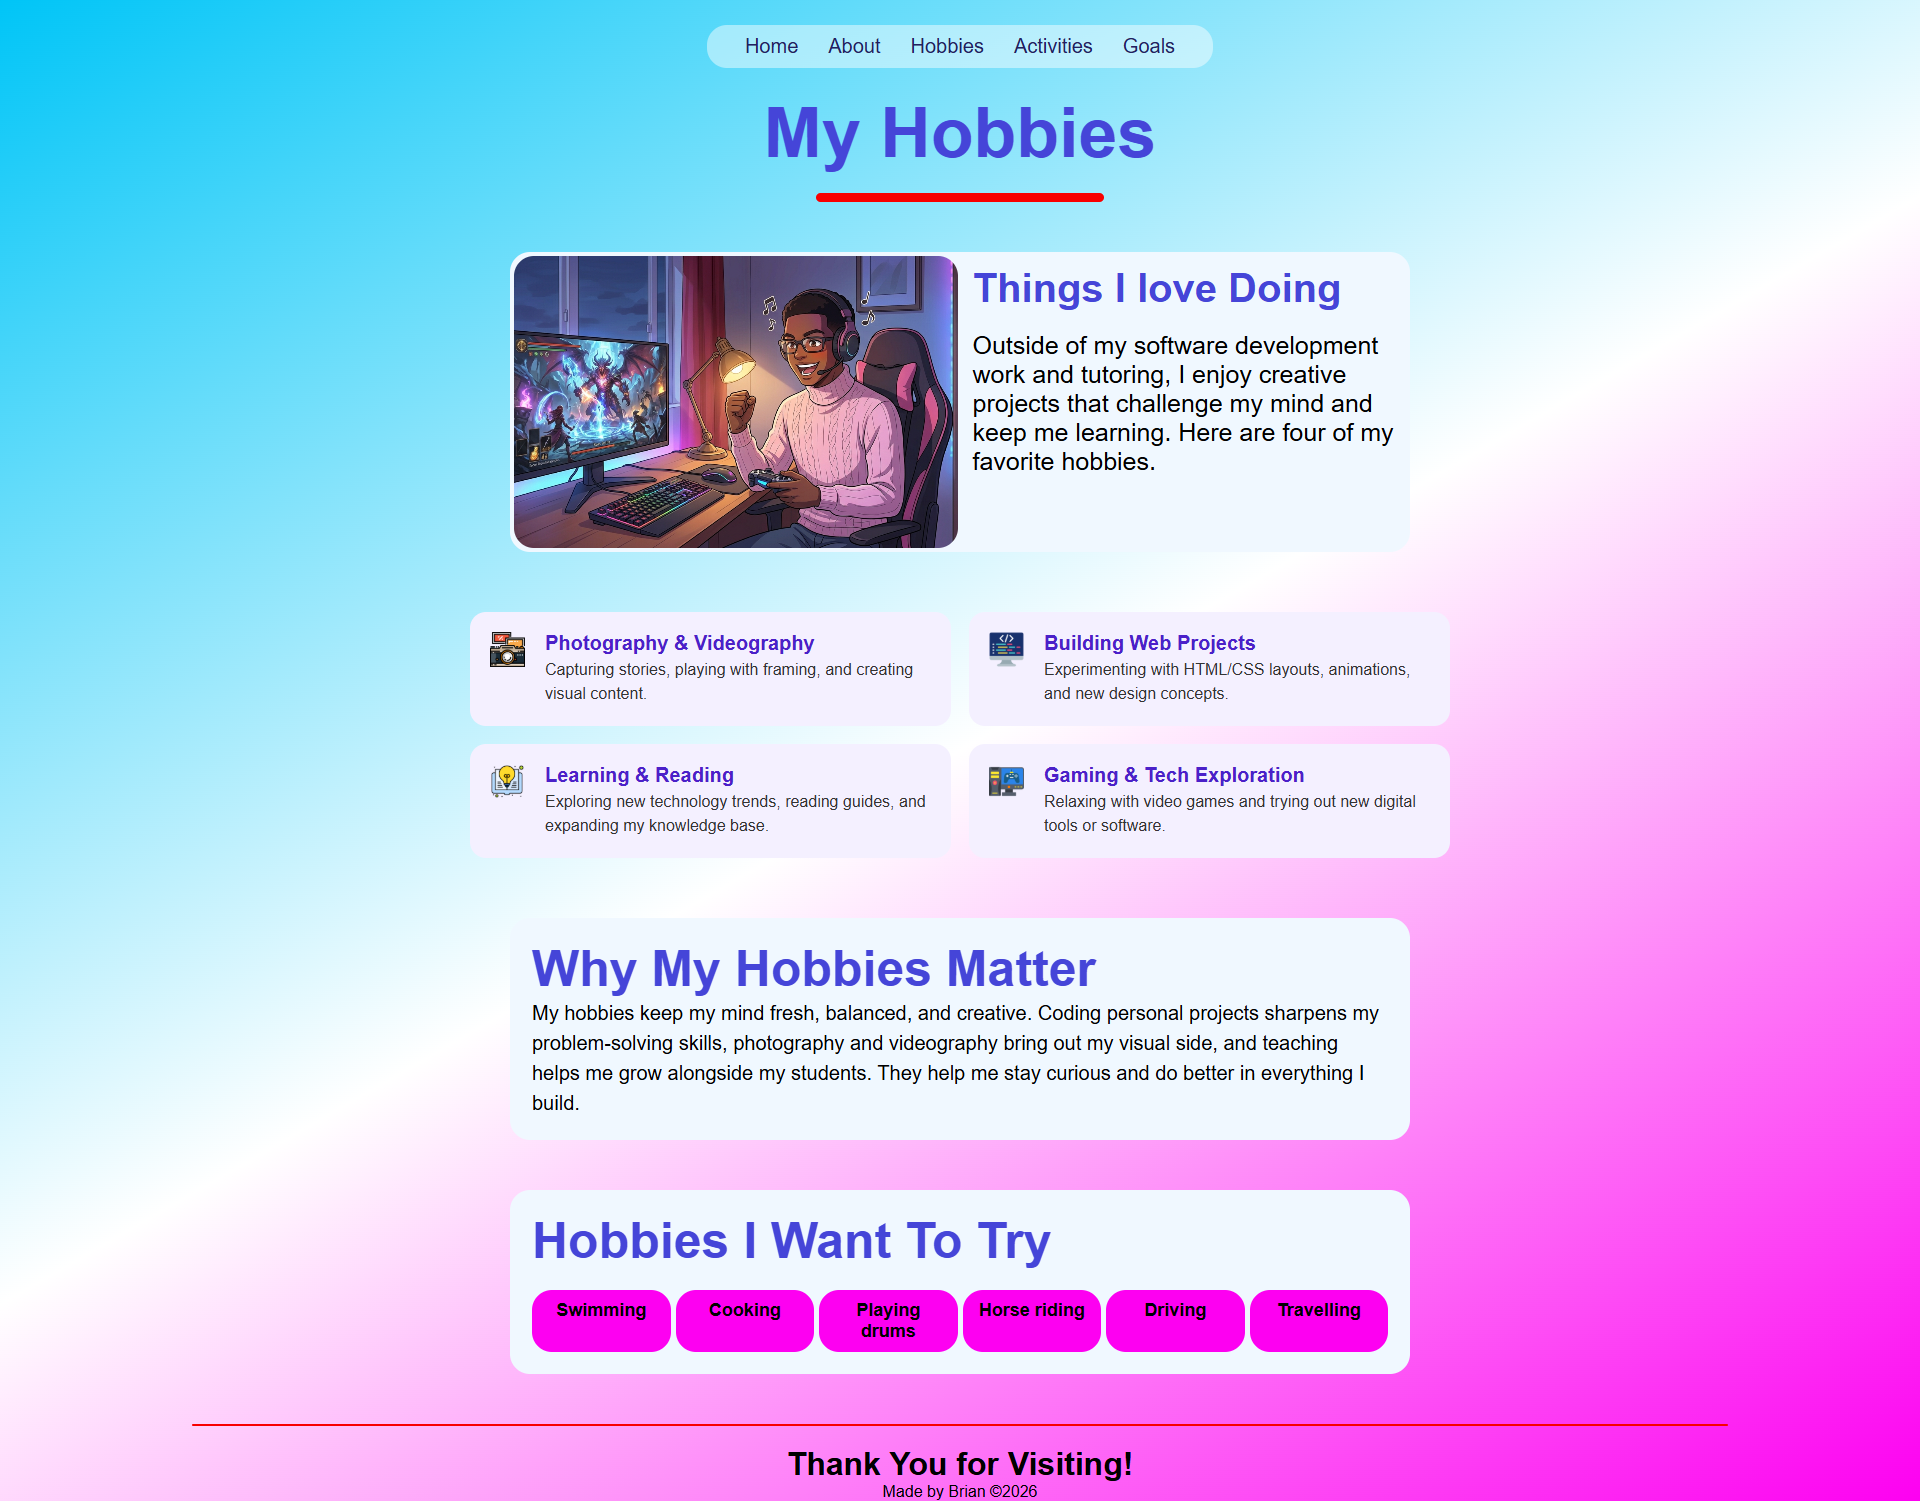
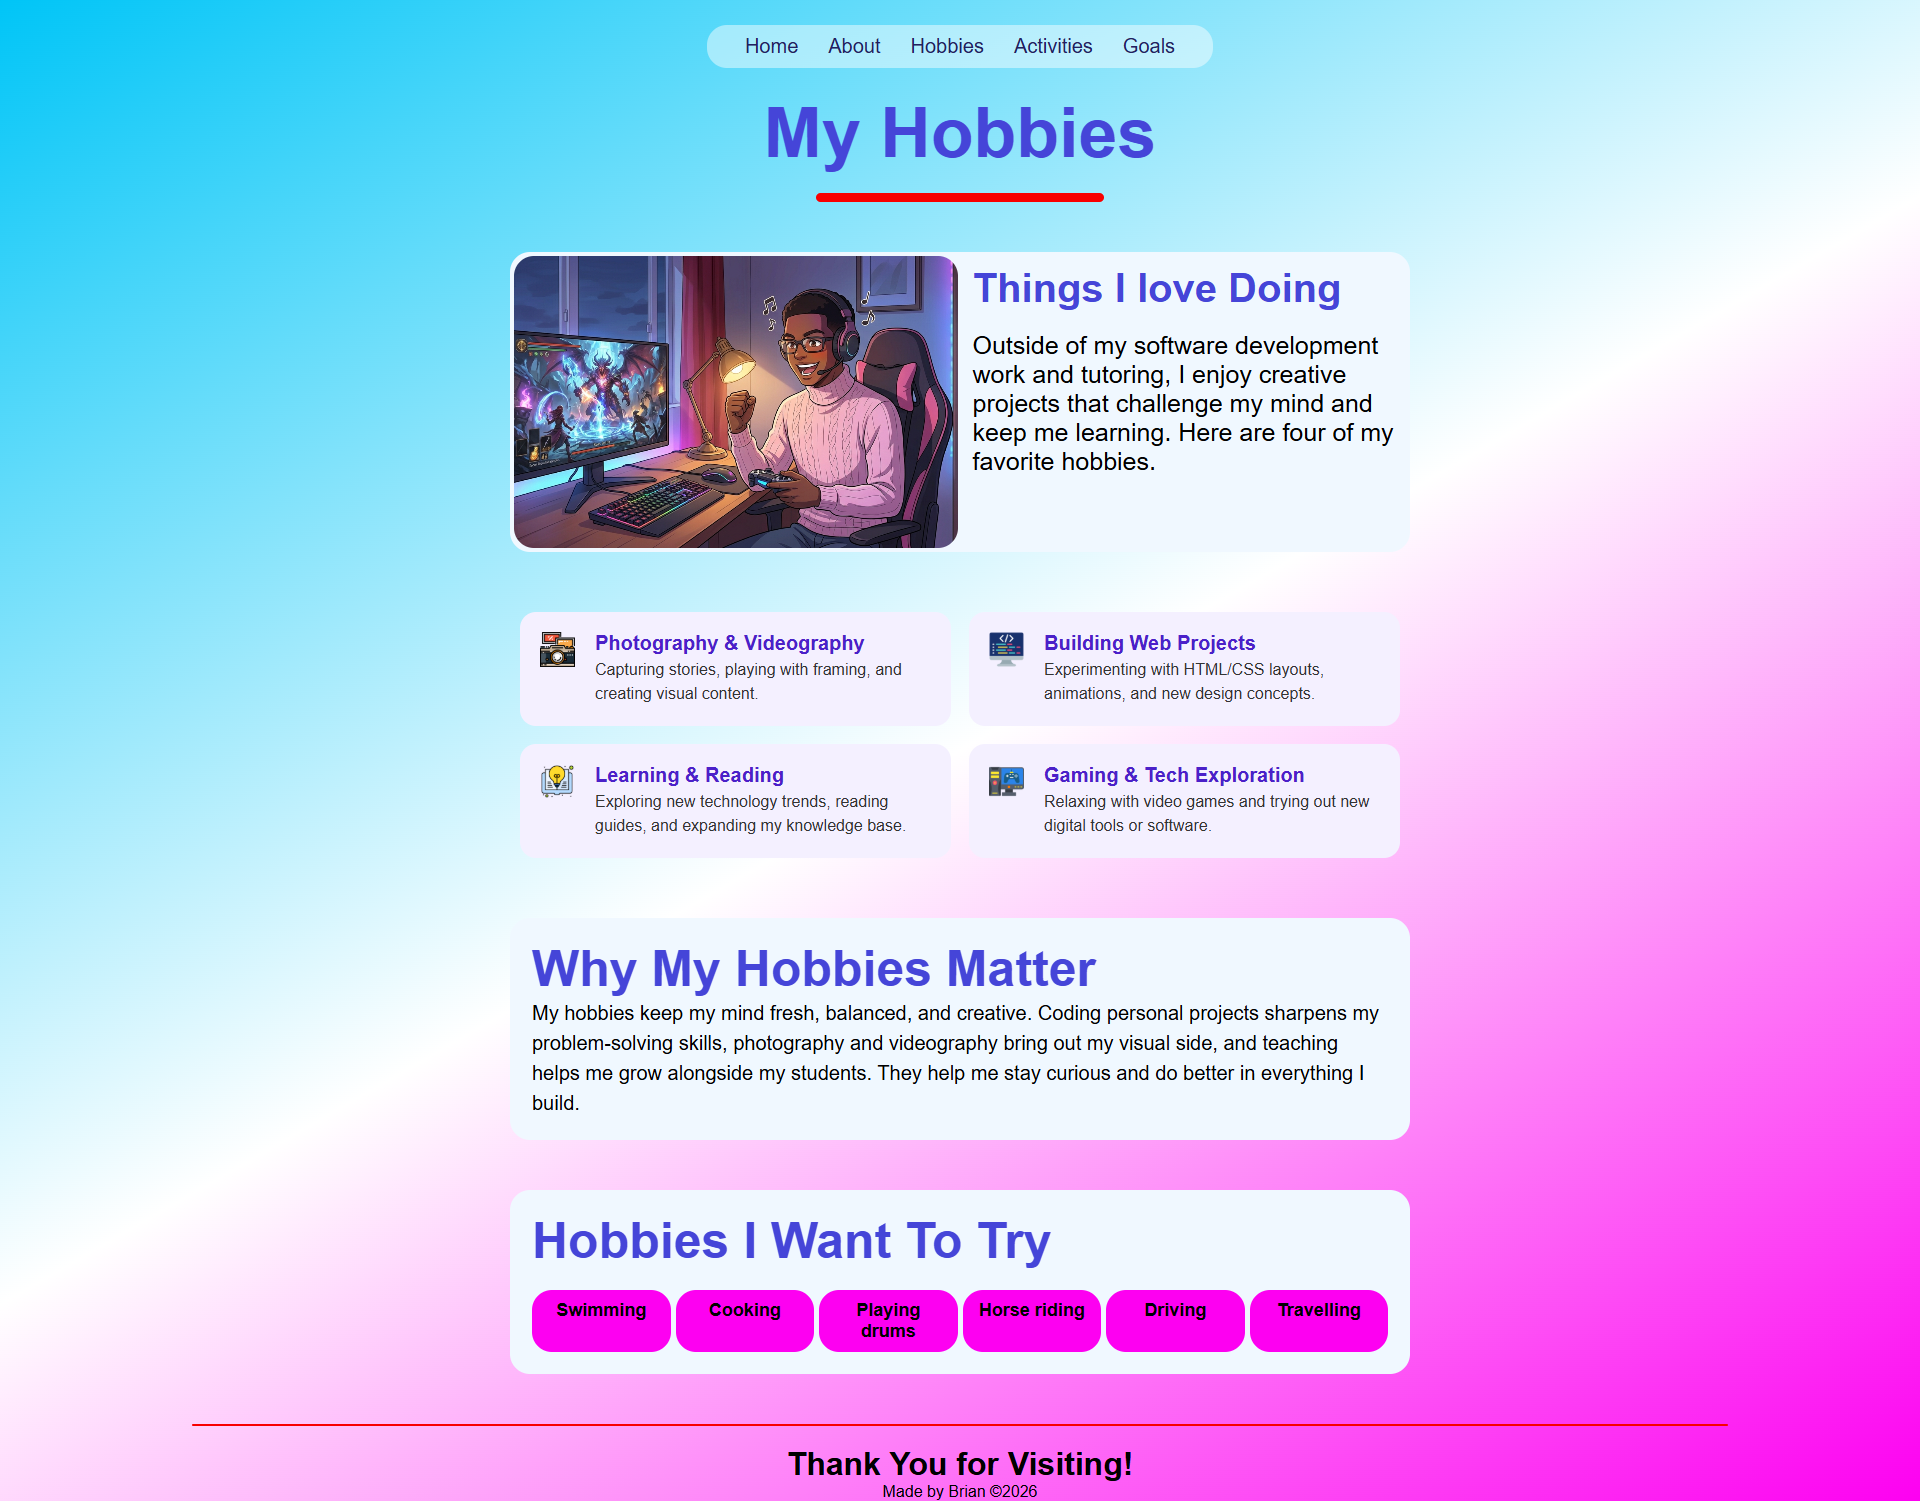
created activity.html

diff --git a/webpages/activity.html b/webpages/activity.html
@@ -1,0 +1,65 @@
+<!doctype html>
+<html lang="en">
+  <head>
+    <meta charset="UTF-8" />
+    <meta name="viewport" content="width=device-width, initial-scale=1.0" />
+    <title>Brian's hompage</title>
+    <link rel="stylesheet" href="../css/style.css" />
+  </head>
+  <body>
+    <!--Navigation Links-->
+    <section class="nav">
+      <nav class="nav-links">
+        <ul>
+          <li><a href="index.html">Home</a></li>
+          <li><a href="about.html">About</a></li>
+          <li><a href="hobby.html">Hobbies</a></li>
+          <li><a href="activity.html">Activities</a></li>
+          <li><a href="goal.html">Goals</a></li>
+        </ul>
+      </nav>
+      <h1>My Daily Activities</h1>
+    </section>
+
+    <hr class="linetop" />
+
+    <!--How i spend my day-->
+    <section class="spendday">
+      <img src="../images/game.png" alt="image of Brian" />
+      <div class="spendday-text">
+        <h1>How I Spend My Day</h1>
+        <p>
+          I am a tutor who loves teaching about computers and technology. I
+          enjoying readind, coding and playing games. I made this website myself
+          to share a little about my life.
+        </p>
+      </div>
+    </section>
+
+    <!--activities-->
+    <section class="routineactivity">
+      <!--my details-->
+      <div class="mydetails">
+        <h1>My Details</h1>
+        <ul>
+          <li><span>Name: </span>Brian</li>
+          <li><span>Age: </span>22 years</li>
+          <li><span>Workplace: </span>Novus Computer Training Institute</li>
+          <li><span>Teach: </span>I.C.T</li>
+          <li><span>Lives in: </span>Nakuru, Kenya</li>
+        </ul>
+      </div>
+      <!--my favourites-->
+      <div class="myfavourites">
+        <h1>My Favourites</h1>
+        <ul>
+          <li><span>Color: </span>Red</li>
+          <li><span>Food: </span>Pilau and Chicken</li>
+          <li><span>Book: </span>Horror</li>
+          <li><span>Music: </span>Anything that's vibe</li>
+          <li><span>Animal: </span>Horse</li>
+        </ul>
+      </div>
+    </section>
+  </body>
+</html>

diff --git a/css/hobby.css b/css/hobby.css
@@ -36,7 +36,7 @@
   display: grid;
   grid-template-columns: repeat(2, 1fr);
   gap: 18px;
-  max-width: 1000px;
+  max-width: 900px;
   margin: 30px auto;
   padding: 10px;
 }
